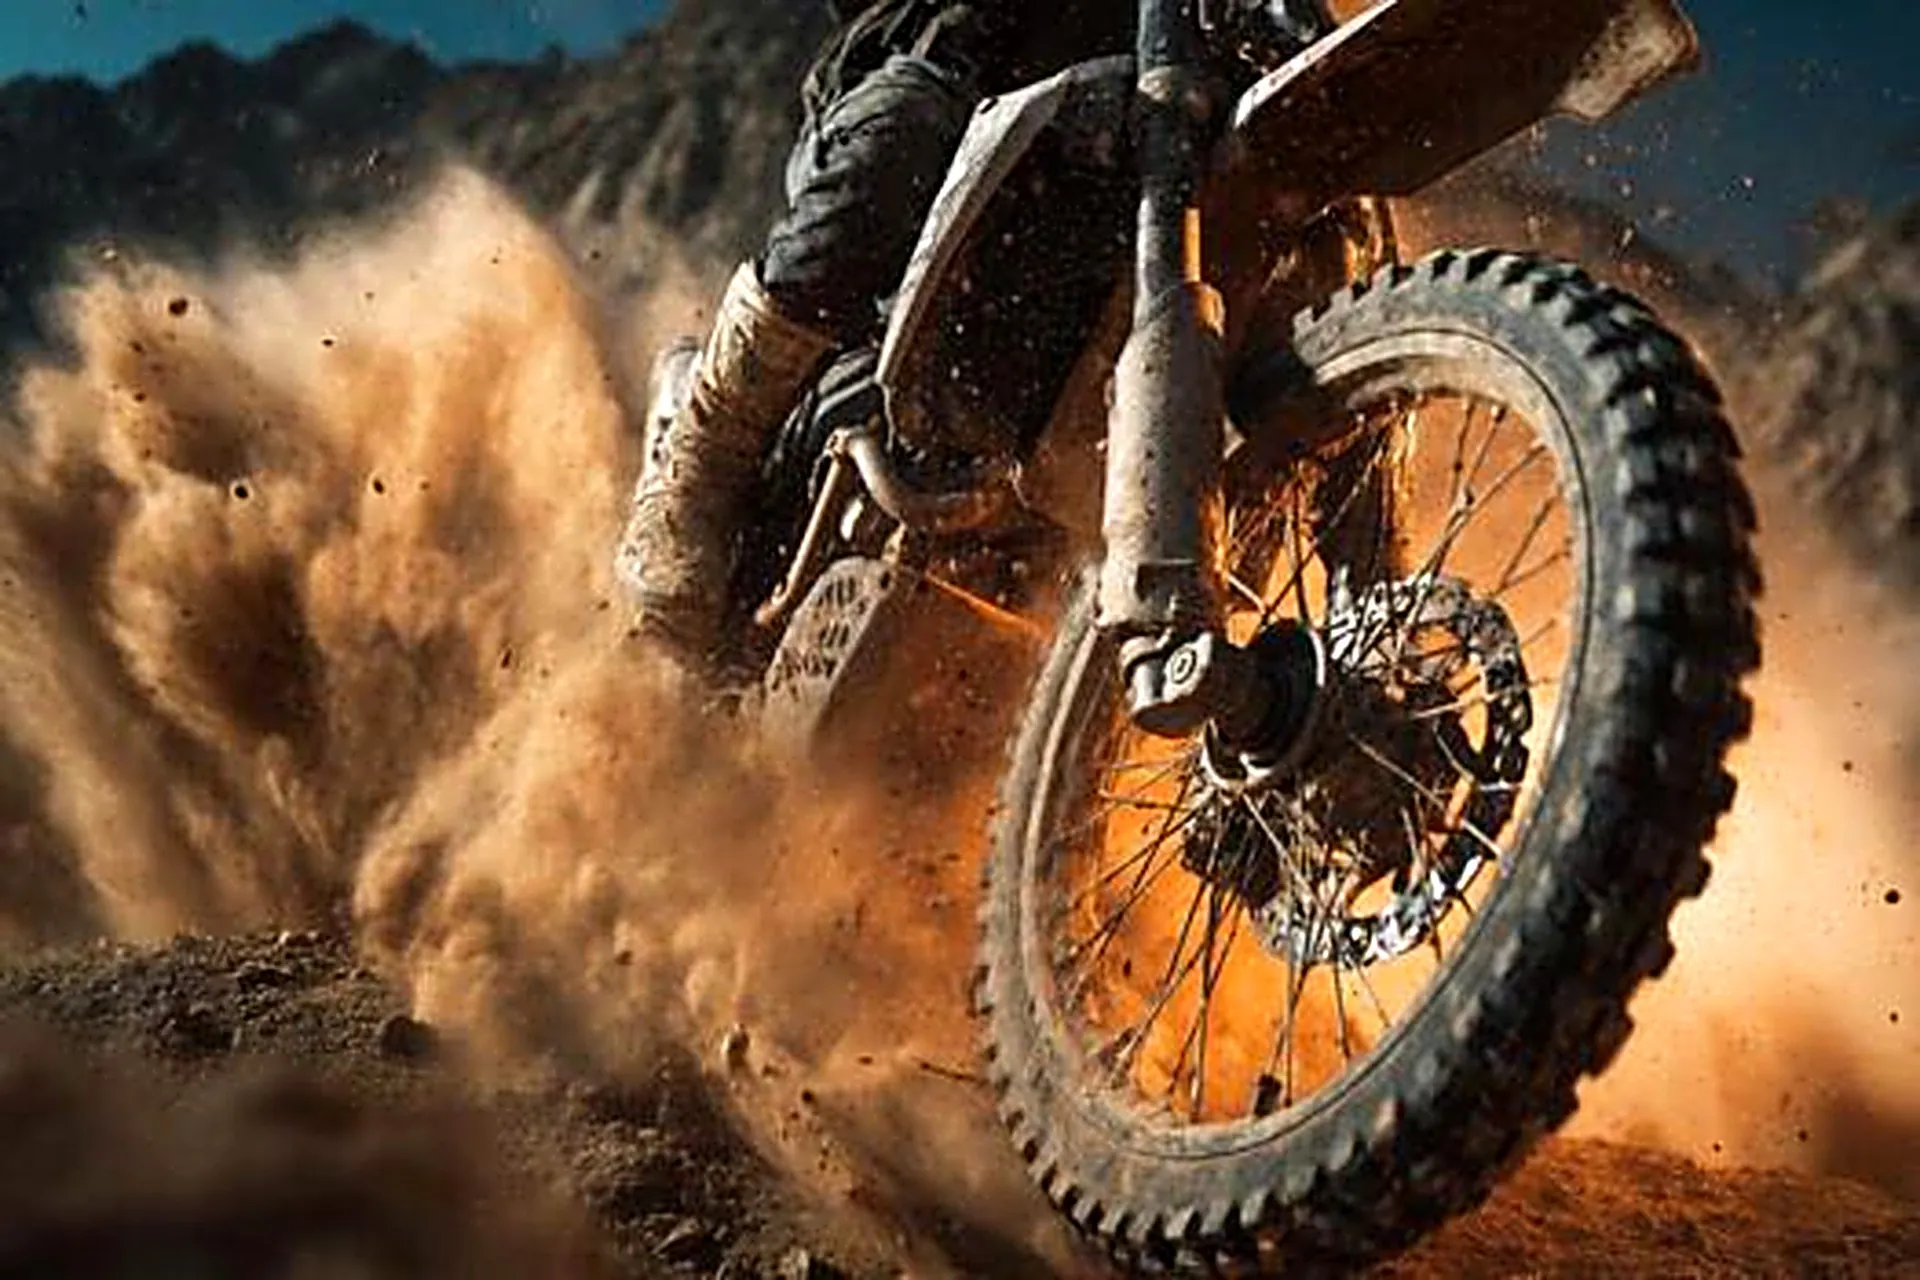
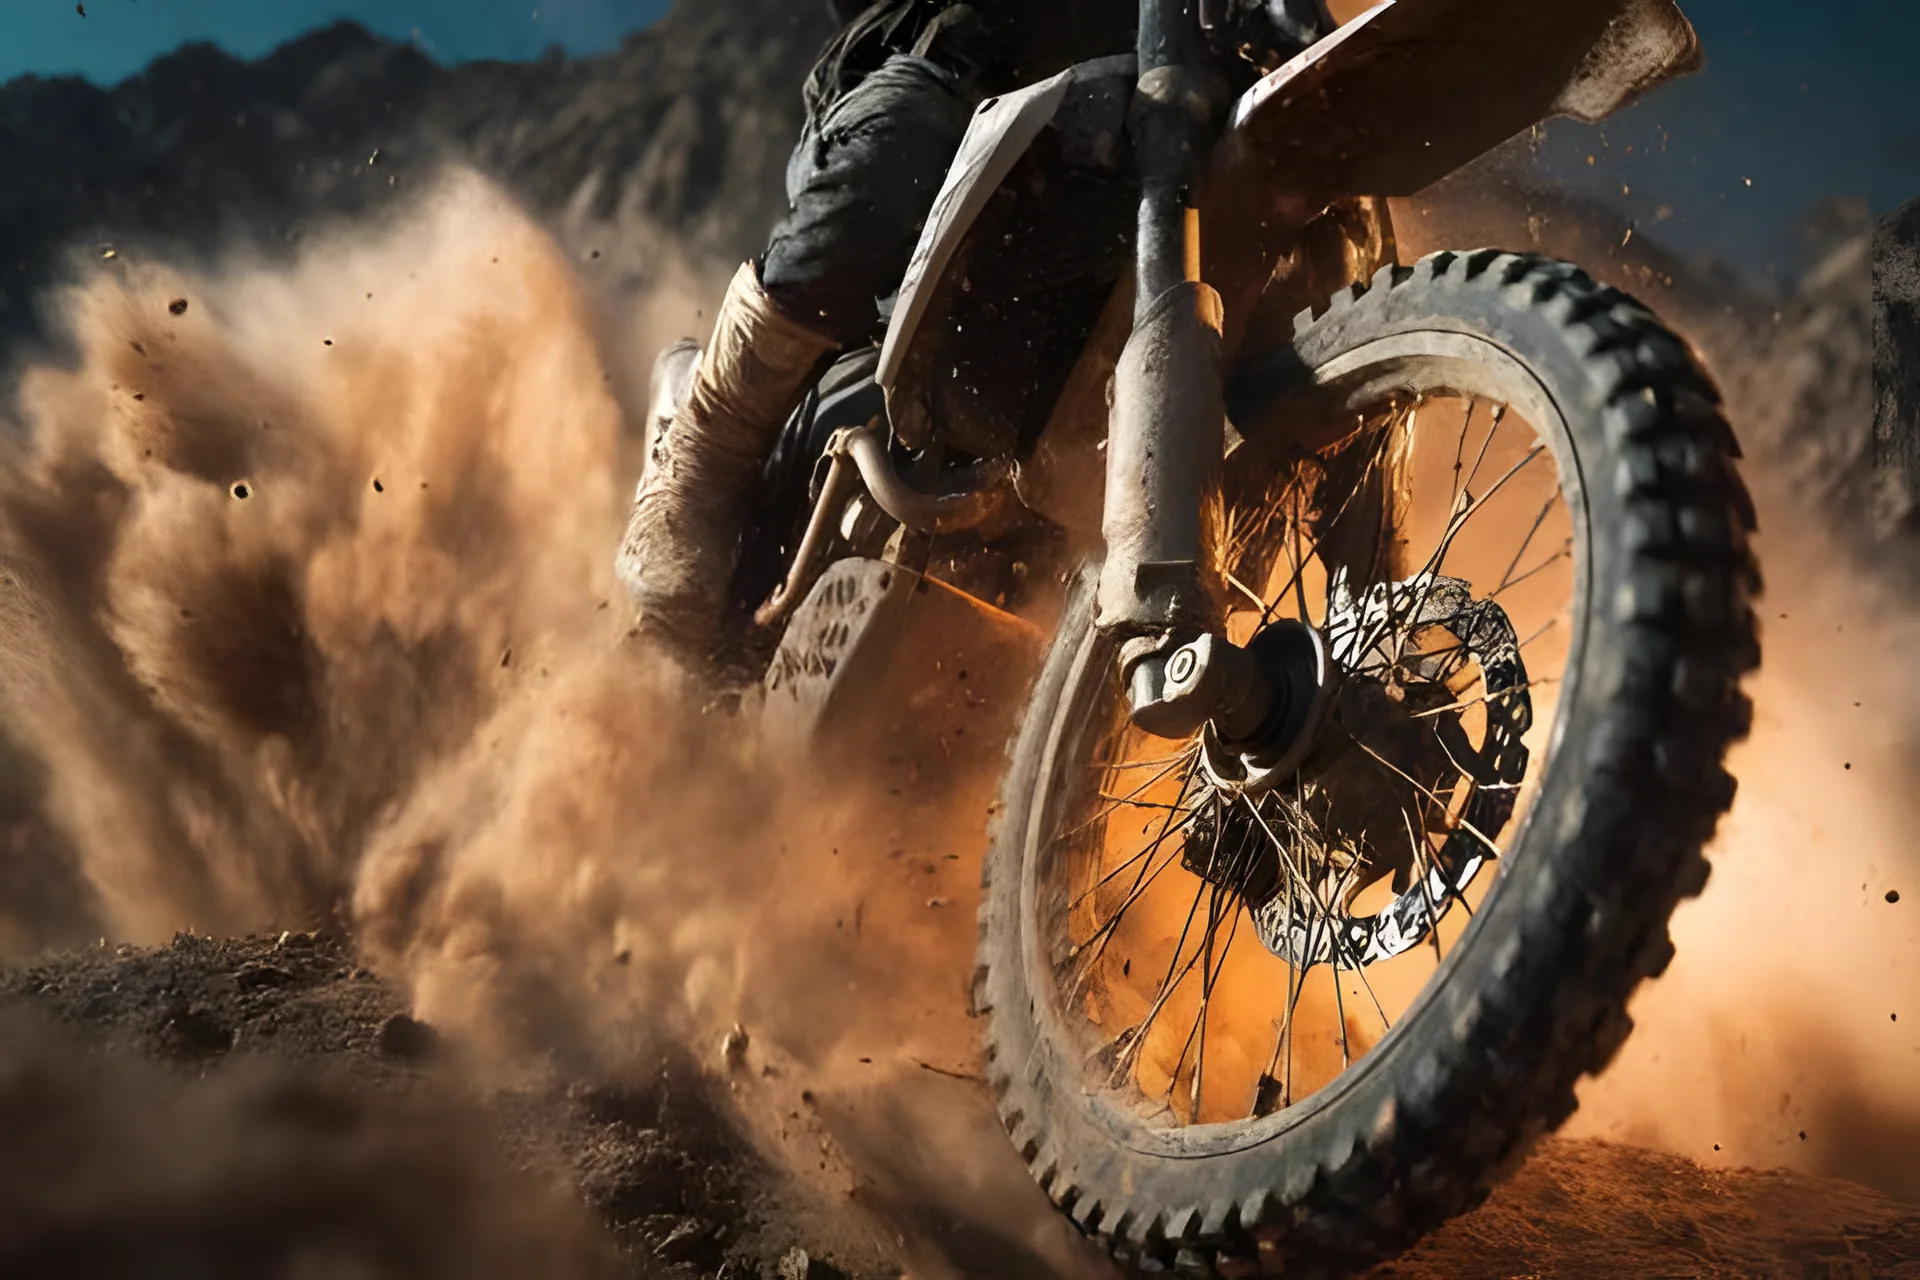
Home hero: sharper photo, right side only on desktop

diff --git a/frontend/src/pages/public/Home.tsx b/frontend/src/pages/public/Home.tsx
@@ -37,20 +37,23 @@ export default function Home() {
     <>
       {/* Hero: an off-road photo under a navy fade. Phones: photo on top, text below. Desktop: text left, wheel right. */}
       <section id="home-hero" className="relative overflow-hidden bg-brand text-brand-foreground">
-        <img
-          src={heroLarge}
-          srcSet={`${heroSmall} 960w, ${heroLarge} 1920w`}
-          sizes="100vw"
-          alt=""
-          aria-hidden
-          fetchPriority="high"
-          className="absolute inset-x-0 top-0 h-[330px] w-full object-cover object-[78%_40%] saturate-[1.1] contrast-[1.08] md:inset-0 md:h-full md:object-[75%_50%]"
-        />
-        <div className="pointer-events-none absolute inset-x-0 top-0 h-[330px] bg-[#0b2a8a] opacity-20 mix-blend-color md:inset-0 md:h-full" aria-hidden />
-        {/* Phones: fade the photo down into navy so the headline sits on solid colour. */}
-        <div className="pointer-events-none absolute inset-x-0 top-0 h-[332px] bg-[linear-gradient(180deg,rgb(11_27_63/0.2)_0%,transparent_35%,rgb(11_27_63/0.7)_75%,var(--brand)_100%)] md:hidden" aria-hidden />
-        {/* Desktop: navy behind the text on the left, the wheel clear on the right, a blue glow from the corner. */}
-        <div className="pointer-events-none absolute inset-0 hidden bg-[linear-gradient(90deg,var(--brand)_0%,rgb(11_27_63/0.95)_30%,rgb(11_27_63/0.55)_52%,transparent_78%)] md:block" aria-hidden />
+        {/* The photo covers only the right side on desktop (the text side is solid navy anyway), so it is
+            stretched far less on wide screens and stays sharp. */}
+        <div className="pointer-events-none absolute inset-x-0 top-0 h-[330px] md:inset-y-0 md:right-0 md:left-auto md:h-full md:w-[62%] xl:w-[58%]" aria-hidden>
+          <img
+            src={heroLarge}
+            srcSet={`${heroSmall} 960w, ${heroLarge} 1920w`}
+            sizes="(min-width: 768px) 62vw, 100vw"
+            alt=""
+            fetchPriority="high"
+            className="h-full w-full object-cover object-[78%_40%] saturate-[1.1] contrast-[1.08] md:object-[70%_50%]"
+          />
+          <div className="absolute inset-0 bg-[#0b2a8a] opacity-20 mix-blend-color" />
+          {/* Phones: fade the photo down into navy so the headline sits on solid colour. */}
+          <div className="absolute inset-0 bg-[linear-gradient(180deg,rgb(11_27_63/0.2)_0%,transparent_35%,rgb(11_27_63/0.7)_75%,var(--brand)_101%)] md:hidden" />
+          {/* Desktop: fade the photo's left edge into the navy behind the text. */}
+          <div className="absolute inset-0 hidden bg-[linear-gradient(90deg,var(--brand)_0%,rgb(11_27_63/0.75)_22%,rgb(11_27_63/0.2)_50%,transparent_75%)] md:block" />
+        </div>
         <div className="pointer-events-none absolute inset-0 hidden bg-[radial-gradient(ellipse_50%_65%_at_100%_100%,rgb(29_79_216/0.5),transparent_70%)] md:block" aria-hidden />
         <div className="pointer-events-none absolute inset-0 hidden shadow-[inset_0_-120px_120px_-40px_rgb(11_27_63/0.9),inset_0_0_160px_rgb(5_12_30/0.5)] md:block" aria-hidden />
 
